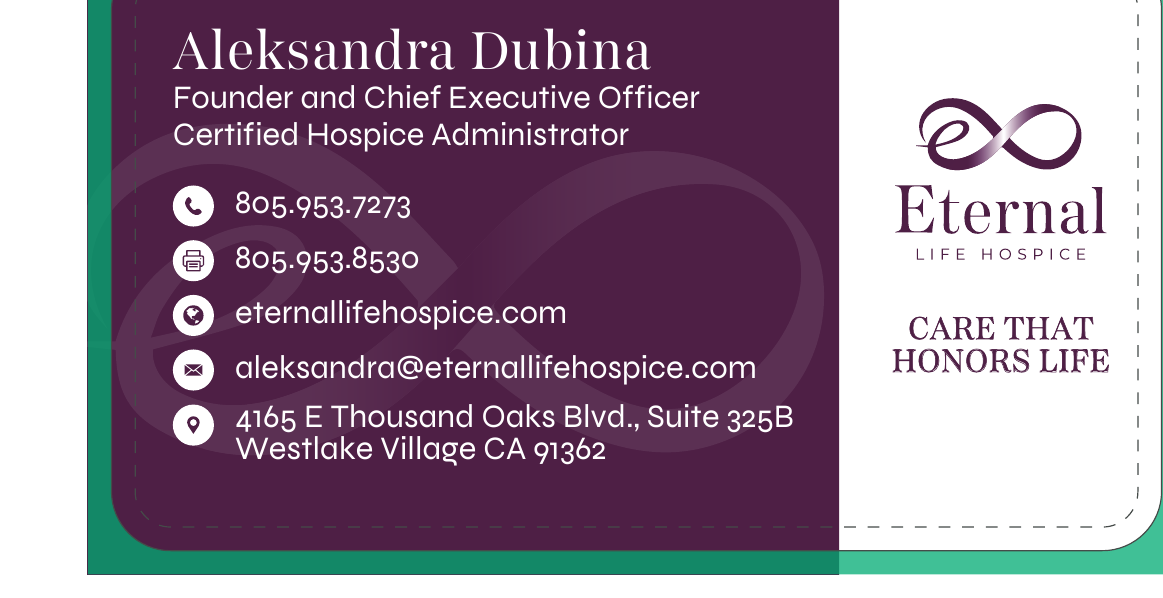
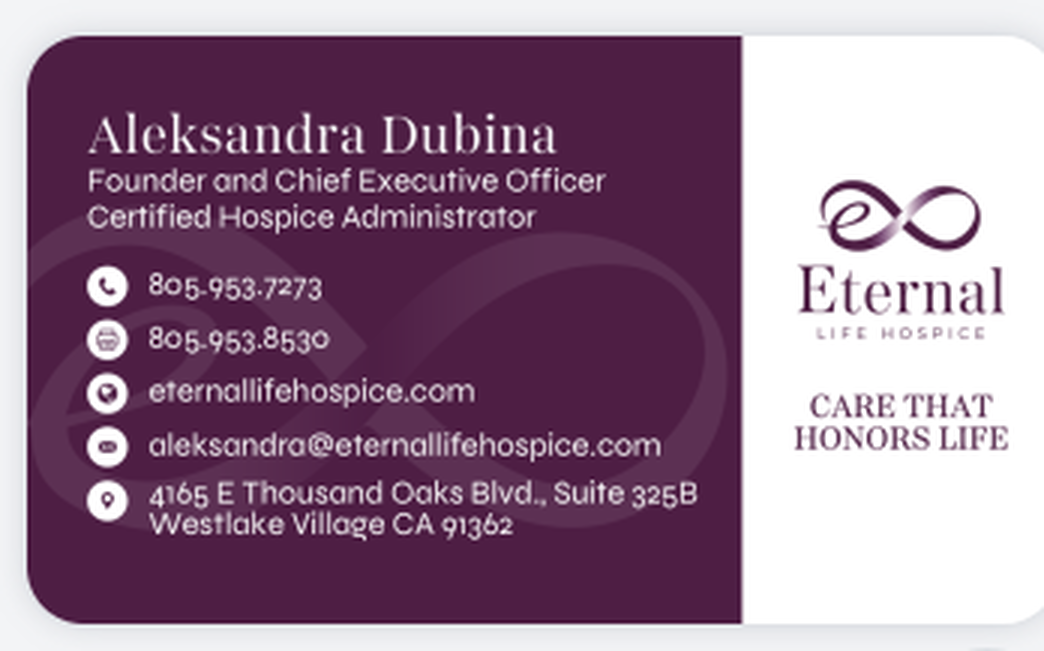
Update card images and styles for cleaner appearance
Replace card images with higher-resolution versions and adjust HTML/CSS to correctly display them, ensuring proper aspect ratio and rounded corners.

Replit-Commit-Author: Agent
Replit-Commit-Session-Id: 1b958849-79a5-4566-be53-e68529931cd0
Replit-Commit-Checkpoint-Type: full_checkpoint
Replit-Commit-Event-Id: 5322f81a-187e-40ff-9aa4-7bf0485da584
Replit-Commit-Screenshot-Url: https://storage.googleapis.com/screenshot-production-us-central1/e1b2f643-7869-4565-af0e-10c34575ee8d/1b958849-79a5-4566-be53-e68529931cd0/Y3LId4h
Replit-Helium-Checkpoint-Created: true

diff --git a/website/elh-preview/card-aleksandra-dubina.html b/website/elh-preview/card-aleksandra-dubina.html
@@ -52,11 +52,11 @@ body{background:#F5F0EB;font-family:Arial,Helvetica,sans-serif;min-height:100vh;
 .flip-section{padding:24px 20px 0;}
 .flip-label{text-align:center;font-size:9px;letter-spacing:1.5px;text-transform:uppercase;color:#8A7080;margin-bottom:10px;}
 
-.flip-scene{width:100%;aspect-ratio:1163/598;perspective:900px;cursor:pointer;}
+.flip-scene{width:100%;aspect-ratio:348/217;perspective:900px;cursor:pointer;}
 .flip-inner{width:100%;height:100%;position:relative;transform-style:preserve-3d;transition:transform .55s cubic-bezier(.4,0,.2,1);}
 .flip-inner.flipped{transform:rotateY(180deg);}
 
-.flip-face{position:absolute;inset:0;width:100%;height:100%;backface-visibility:hidden;-webkit-backface-visibility:hidden;border-radius:12px;overflow:hidden;box-shadow:0 3px 18px rgba(61,20,84,.22);}
+.flip-face{position:absolute;inset:0;width:100%;height:100%;backface-visibility:hidden;-webkit-backface-visibility:hidden;border-radius:14px;overflow:hidden;box-shadow:0 3px 18px rgba(61,20,84,.22);background:#F2F3F5;}
 .flip-face img{width:100%;height:100%;object-fit:cover;object-position:center;display:block;}
 .flip-face.back{transform:rotateY(180deg);}
 
